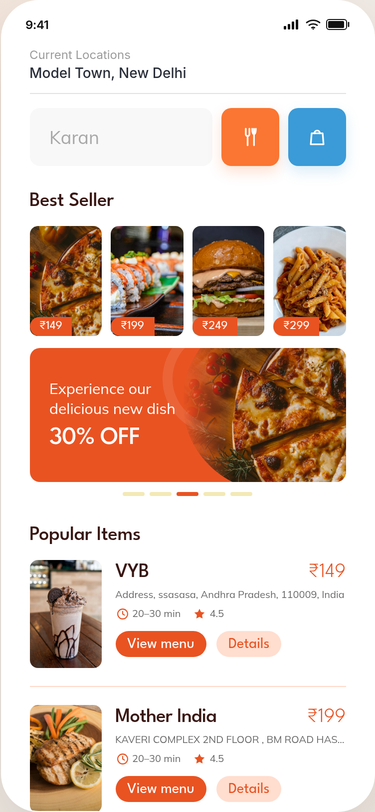
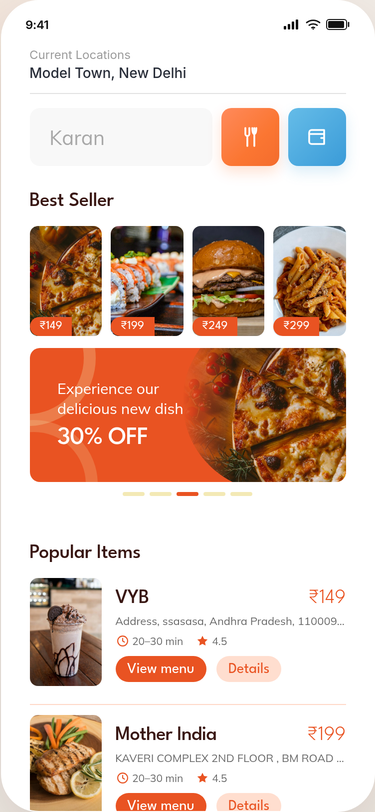
feat: align home layout and controls with design reference

diff --git a/reactjs/src/styles.css b/reactjs/src/styles.css
@@ -817,13 +817,26 @@ input:focus-visible {
 
 .promo-banner::before {
   position: absolute;
-  top: -24px;
-  left: 42%;
-  width: 90px;
-  height: 90px;
-  border: 10px solid rgba(255, 255, 255, 0.1);
+  top: -58px;
+  left: -70px;
+  width: 112px;
+  height: 112px;
+  border: 12px solid rgba(243, 233, 181, 0.28);
   border-radius: 50%;
   content: '';
+  pointer-events: none;
+}
+
+.promo-banner::after {
+  position: absolute;
+  bottom: -66px;
+  left: -60px;
+  width: 104px;
+  height: 104px;
+  border: 12px solid rgba(243, 233, 181, 0.2);
+  border-radius: 50%;
+  content: '';
+  pointer-events: none;
 }
 
 .promo-copy {
@@ -1953,7 +1966,7 @@ input:focus-visible {
 .search-field input {
   color: var(--ink);
   font-family: var(--font);
-  font-size: 18px;
+  font-size: 20px;
 }
 
 .search-field input:focus,
@@ -1971,12 +1984,17 @@ input:focus-visible {
   border-radius: 10px;
 }
 
+.square-button svg {
+  width: 24px;
+  height: 24px;
+}
+
 .square-button.orange {
-  background: #fb7632;
+  background: linear-gradient(135deg, #ff8a5b 0%, #fb7632 60%, #f46c2d 100%);
 }
 
 .square-button.blue {
-  background: #3a9bd8;
+  background: linear-gradient(135deg, #65bce8, #3a9bd8);
 }
 
 .section {
@@ -2037,7 +2055,7 @@ input:focus-visible {
 .promo-banner {
   min-height: 134px;
   margin: 0;
-  padding: 16px 20px;
+  padding: 16px 28px;
   border-radius: 10px;
   background: var(--orange-deep);
 }
@@ -2091,11 +2109,11 @@ input:focus-visible {
 }
 
 .popular-section {
-  margin-top: 28px;
+  margin-top: 46px;
 }
 
 .popular-list {
-  gap: 18px;
+  gap: 10px;
 }
 
 .popular-card {
@@ -2111,7 +2129,7 @@ input:focus-visible {
 }
 
 .popular-copy {
-  padding-top: 2px;
+  padding-top: 10px;
 }
 
 .popular-top {
@@ -2134,16 +2152,17 @@ input:focus-visible {
 }
 
 .popular-address {
-  margin: 5px 0 6px;
+  margin: 5px 0 5px;
   color: #696969;
   font-family: var(--font);
-  font-size: 10px;
+  font-size: 11px;
+  line-height: 1.35;
 }
 
 .meta-row {
   gap: 12px;
   color: #696969;
-  font-size: 10px;
+  font-size: 10.5px;
 }
 
 .meta-row svg {
@@ -2156,7 +2175,7 @@ input:focus-visible {
 
 .popular-actions {
   gap: 10px;
-  margin-top: 10px;
+  margin-top: 8px;
 }
 
 .pill {

diff --git a/reactjs/src/pages/HomePage.jsx b/reactjs/src/pages/HomePage.jsx
@@ -1,6 +1,6 @@
 import { useMemo, useState } from 'react';
 import { useNavigate } from 'react-router-dom';
-import { Bag, Clock, LogOut, Utensils, Star, X } from '../components/Icons.jsx';
+import { Clock, LogOut, Utensils, Star, Wallet, X } from '../components/Icons.jsx';
 import { SmartImage } from '../components/SmartImage.jsx';
 import { useAuth } from '../lib/auth.jsx';
 import { useCart } from '../lib/cart.jsx';
@@ -106,7 +106,7 @@ export function HomePage() {
         </button>
 
         <button type="button" className="square-button blue" onClick={openCart} aria-label="Open cart">
-          <Bag size={22} />
+          <Wallet size={22} />
           {count > 0 && <span className="cart-count">{count}</span>}
         </button>
       </div>

diff --git a/reactjs/src/components/Icons.jsx b/reactjs/src/components/Icons.jsx
@@ -61,6 +61,16 @@ export function Bag({ size = 20, ...props }) {
   );
 }
 
+export function Wallet({ size = 22, ...props }) {
+  return (
+    <svg width={size} height={size} viewBox="0 0 24 24" aria-hidden="true" {...base} {...props}>
+      <path d="M4 7.5A2.5 2.5 0 0 1 6.5 5H19v14H6.5A2.5 2.5 0 0 1 4 16.5v-9Z" />
+      <path d="M4 9h15" />
+      <path d="M16 13h2" />
+    </svg>
+  );
+}
+
 export function Star({ size = 16, ...props }) {
   return (
     <svg width={size} height={size} viewBox="0 0 24 24" aria-hidden="true" fill="currentColor" {...props}>
